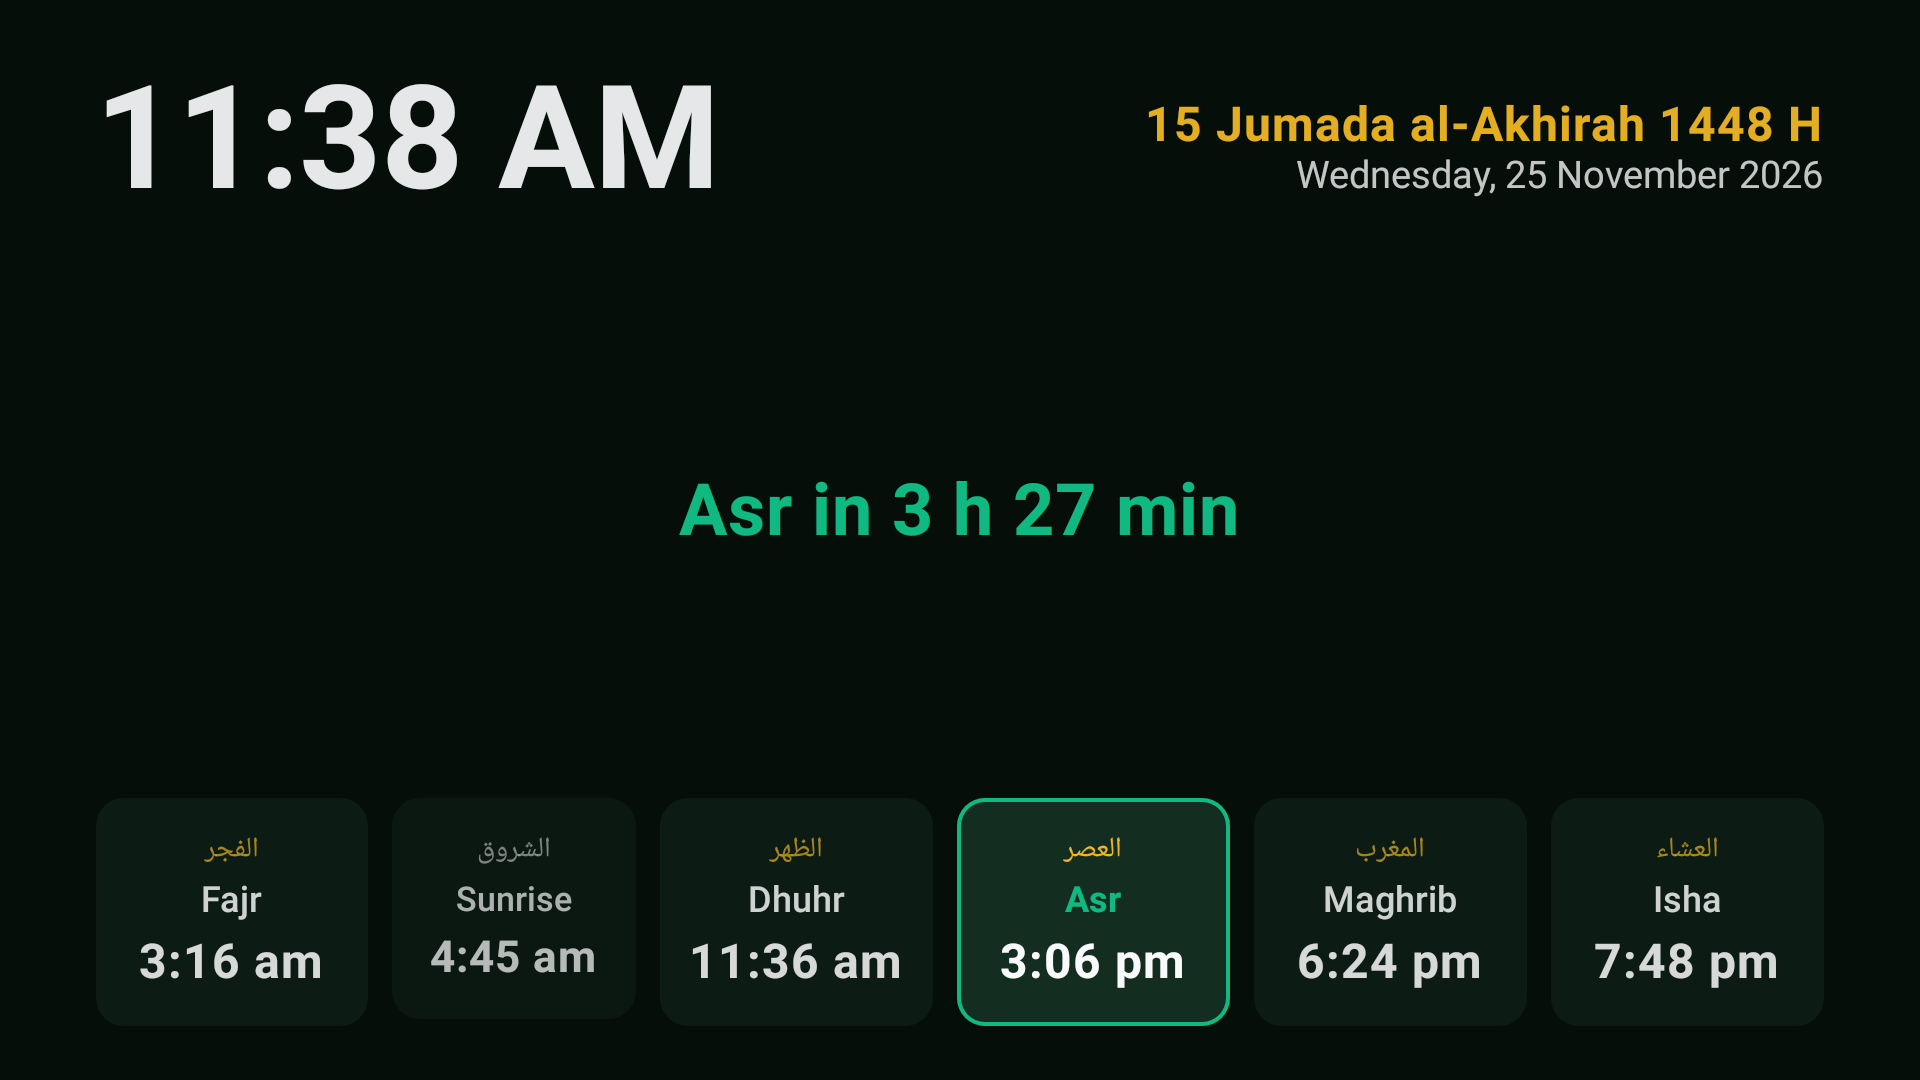
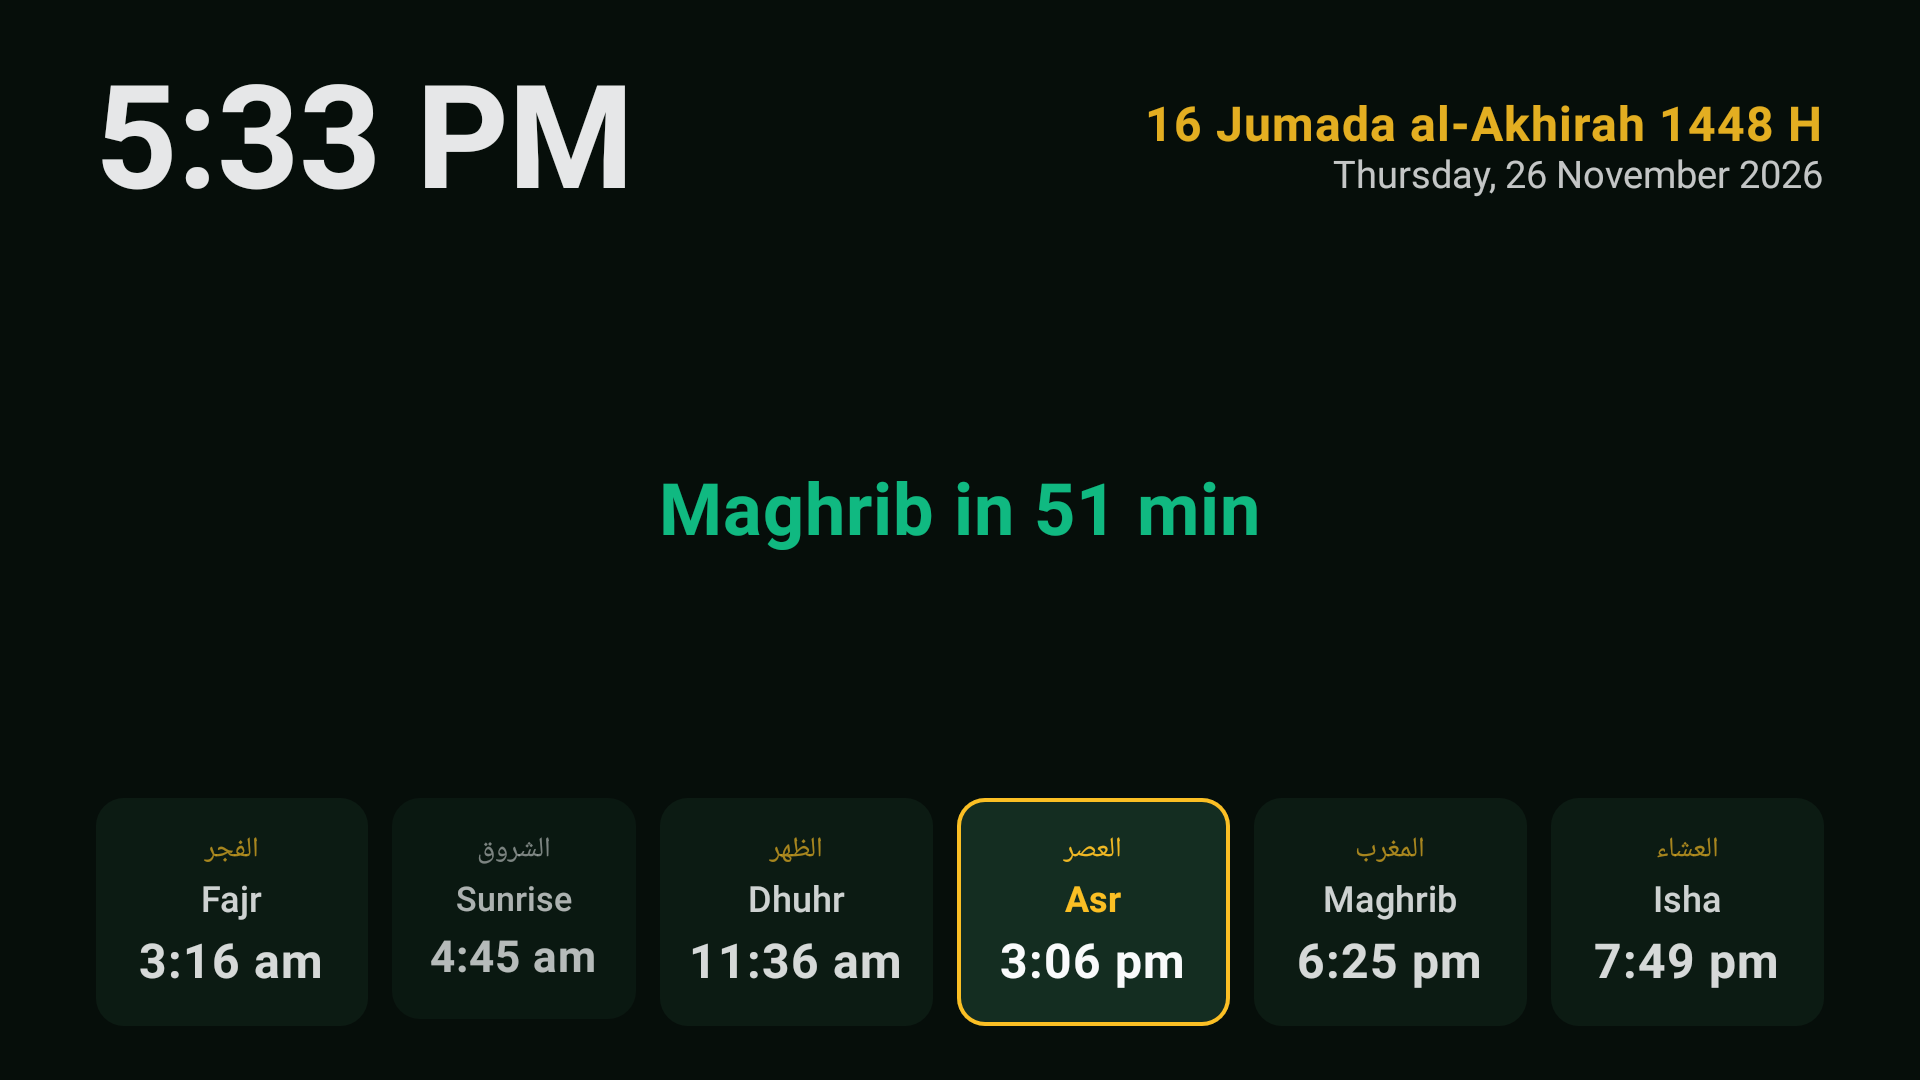
fix: address Review 10 (R10-1 Android 16 kiosk back, R10-3 engine activePrayer, R10-4/R10-5)

diff --git a/app-salatschedule/src/main/java/com/salatschedule/tv/screensaver/ScreensaverContent.kt b/app-salatschedule/src/main/java/com/salatschedule/tv/screensaver/ScreensaverContent.kt
@@ -82,7 +82,6 @@ private sealed interface ScreensaverSlideState {
         val hijriDate: String,
         val prayers: List<PrayerTimeItem>,
         val sunriseText: String,
-        val sunriseTime: java.time.LocalTime?,
         val activePrayer: PrayerTimeItem?,
         val nextPrayer: PrayerTimeItem?,
         val minutesUntilNext: Long,
@@ -147,19 +146,19 @@ fun ScreensaverHost(
     LaunchedEffect(loadedSettings, quranRefs) {
         val settings = loadedSettings ?: return@LaunchedEffect
         var cachedDate: LocalDate? = null
-        var cachedPrayerDay: PrayerTimesDay? = null
+        var cachedKey: DailyPrayerCacheKey? = null
         var cachedCalendarRows: List<ClassifiedIslamicEvent> = emptyList()
         var slideIdx = 0
 
         suspend fun ensureDailyData(nowZoned: ZonedDateTime): Pair<PrayerTimesDay, List<ClassifiedIslamicEvent>> {
             val today = nowZoned.toLocalDate()
-            if (cachedDate != today || cachedPrayerDay == null) {
-                val (day, calRows) = withContext(Dispatchers.IO) {
+            if (cachedDate != today || cachedKey == null) {
+                val (key, calRows) = withContext(Dispatchers.IO) {
                     val hijriMonths = runCatching {
                         LocaleHelper.wrap(context, settings.appLanguage)
                             .resources.getStringArray(R.array.hijri_months).toList()
                     }.getOrDefault(emptyList())
-                    val key = DailyPrayerCacheKey(
+                    val dailyKey = DailyPrayerCacheKey(
                         date = today,
                         config = settings.prayerConfig(),
                         hijriOffsetDays = settings.hijriOffsetDays,
@@ -167,19 +166,21 @@ fun ScreensaverHost(
                         iqamahOffsets = emptyMap(),
                         hijriMonthNames = hijriMonths
                     )
-                    val computedDay = prayerDayCache.getOrCompute(key, nowZoned)
                     val rows = IslamicCalendarSlideRows.compute(
                         today = today,
                         enabledIds = settings.enabledIslamicEventIds,
                         adjustmentDays = settings.hijriOffsetDays
                     )
-                    computedDay to rows
+                    dailyKey to rows
                 }
                 cachedDate = today
-                cachedPrayerDay = day
+                cachedKey = key
                 cachedCalendarRows = calRows
             }
-            return cachedPrayerDay!! to cachedCalendarRows
+            val computedDay = withContext(Dispatchers.IO) {
+                prayerDayCache.getOrCompute(cachedKey!!, nowZoned)
+            }
+            return computedDay to cachedCalendarRows
         }
 
         while (isActive) {
@@ -202,8 +203,8 @@ fun ScreensaverHost(
                 ScreensaverSlideKind.SCHEDULE -> {
                     val nowTime = nowZoned.toLocalTime()
                     val prayers = ScreensaverRotationEngine.normalizeHomePrayers(prayerDay)
-                    val nextPrayer = prayers.firstOrNull { it.time?.isAfter(nowTime) == true } ?: prayers.firstOrNull()
-                    val activePrayer = resolveActivePrayer(prayers, prayerDay.sunrise, nowTime)
+                    val nextPrayer = prayerDay.nextPrayer ?: prayers.firstOrNull()
+                    val activePrayer = prayerDay.activePrayer
                     val minsUntil = nextPrayer?.let {
                         ScreensaverRotationEngine.minutesUntilNextPrayer(nowTime, it)
                     } ?: 0L
@@ -213,7 +214,6 @@ fun ScreensaverHost(
                         hijriDate = prayerDay.hijriDate,
                         prayers = prayers,
                         sunriseText = prayerDay.formattedSunrise(settings.is24HourFormat),
-                        sunriseTime = prayerDay.sunrise,
                         activePrayer = activePrayer,
                         nextPrayer = nextPrayer,
                         minutesUntilNext = minsUntil,
@@ -270,16 +270,22 @@ fun ScreensaverHost(
                 elapsedMs += step
                 if (overflowSkipCounter != startSkip) break
                 if (currentKind == ScreensaverSlideKind.SCHEDULE && activeKinds.size == 1) {
-                    val refreshedNow = ZonedDateTime.now(zone).toLocalTime()
+                    val refreshedZoned = ZonedDateTime.now(zone)
+                    val refreshedNow = refreshedZoned.toLocalTime()
                     val cur = activeSlide as? ScreensaverSlideState.Schedule
                     val formatted = ScreensaverRotationEngine.formatClockMinutes(refreshedNow, settings.is24HourFormat)
                     if (cur != null && cur.clockText != formatted) {
-                        val nextP = cur.prayers.firstOrNull { it.time?.isAfter(refreshedNow) == true } ?: cur.prayers.firstOrNull()
-                        val activeP = resolveActivePrayer(cur.prayers, cur.sunriseTime, refreshedNow)
+                        val (refreshedDay, _) = ensureDailyData(refreshedZoned)
+                        val refreshedPrayers = ScreensaverRotationEngine.normalizeHomePrayers(refreshedDay)
+                        val nextP = refreshedDay.nextPrayer ?: refreshedPrayers.firstOrNull()
                         val mins = nextP?.let { ScreensaverRotationEngine.minutesUntilNextPrayer(refreshedNow, it) } ?: 0L
                         activeSlide = cur.copy(
                             clockText = formatted,
-                            activePrayer = activeP,
+                            gregorianDate = refreshedDay.gregorianDate,
+                            hijriDate = refreshedDay.hijriDate,
+                            prayers = refreshedPrayers,
+                            sunriseText = refreshedDay.formattedSunrise(settings.is24HourFormat),
+                            activePrayer = refreshedDay.activePrayer,
                             nextPrayer = nextP,
                             minutesUntilNext = mins
                         )
@@ -331,22 +337,6 @@ fun ScreensaverHost(
             }
         }
     }
-}
-
-private fun resolveActivePrayer(
-    prayers: List<PrayerTimeItem>,
-    sunrise: java.time.LocalTime?,
-    nowTime: java.time.LocalTime
-): PrayerTimeItem? {
-    val fajr = prayers.firstOrNull { it.prayer == Prayer.SUBUH }
-    val dhuhr = prayers.firstOrNull { it.prayer == Prayer.ZUHUR }
-    if (sunrise != null && dhuhr?.time != null && !nowTime.isBefore(sunrise) && nowTime.isBefore(dhuhr.time)) {
-        return null
-    }
-    if (fajr?.time != null && nowTime.isBefore(fajr.time)) {
-        return prayers.firstOrNull { it.prayer == Prayer.ISYA }
-    }
-    return prayers.lastOrNull { it.time != null && !nowTime.isBefore(it.time) }
 }
 
 @Composable

diff --git a/app-salatsign/src/main/java/com/salatsign/tv/MainActivity.kt b/app-salatsign/src/main/java/com/salatsign/tv/MainActivity.kt
@@ -145,7 +145,8 @@ class MainActivity : ComponentActivity() {
                     onRequestOpenSettings = { requestOpenSettings() },
                     onOpenSettingsDirect = { isSettingsOpen.value = true },
                     onCloseSettings = { isSettingsOpen.value = false },
-                    onClosePinDialog = { isPinDialogOpen.value = false }
+                    onClosePinDialog = { isPinDialogOpen.value = false },
+                    onTriggerExitHint = { exitHintTrigger.longValue = System.currentTimeMillis() }
                 )
             }
         }
@@ -253,7 +254,8 @@ private fun SalatSignMainContent(
     onRequestOpenSettings: () -> Unit,
     onOpenSettingsDirect: () -> Unit,
     onCloseSettings: () -> Unit,
-    onClosePinDialog: () -> Unit
+    onClosePinDialog: () -> Unit,
+    onTriggerExitHint: () -> Unit = {}
 ) {
     val settings by settingsViewModel.settings.collectAsState()
     val isSettingsLoaded by settingsViewModel.isSettingsLoaded.collectAsState()
@@ -282,8 +284,10 @@ private fun SalatSignMainContent(
         }
     }
 
-    if (isSettingsOpen) {
-        BackHandler { onCloseSettings() }
+    when {
+        isSettingsOpen -> BackHandler { onCloseSettings() }
+        isPinDialogOpen -> BackHandler { onClosePinDialog() }
+        settings.isSetupCompleted -> BackHandler { onTriggerExitHint() }
     }
 
     when {

diff --git a/core-tv-ui/src/main/java/com/salatsign/tv/ui/theme/Color.kt b/core-tv-ui/src/main/java/com/salatsign/tv/ui/theme/Color.kt
@@ -26,7 +26,7 @@ val AccentEmerald = Color(0xFF10B981)
 val AccentEmeraldDark = Color(0xFF046347)
 val EmeraldLight = Color(0xFF34D399)
 val AccentGold = Color(0xFFFBBF24)
-val AccentGoldDark = Color(0xFF734000) // Deep antique bronze (>=4.75:1 contrast on LightSurface & 18% chip tint)
+val AccentGoldDark = Color(0xFF734000) // Deep antique bronze (>=4.7:1 contrast on LightSurface & 18% chip tint)
 val ActivePrayerPulse = Color(0xFF059669)
 val PulseRed = Color(0xFFEF4444)
 

diff --git a/docs/SCREENSAVER.md b/docs/SCREENSAVER.md
@@ -2,7 +2,7 @@
 
 SalatSchedule registers a strictly silent, dark-mode Android TV screensaver (`com.salatschedule.tv.screensaver.SalatScreensaverService`) that rotates up to three slides while your TV is idle:
 
-1. **Prayer Schedule** — large clock (no seconds, 12h/24h per your app setting), Gregorian and Hijri date, 5 daily prayers + Sunrise (Friday Dhuhr stays labeled Dhuhr), with the next prayer highlighted and countdown.
+1. **Prayer Schedule** — large clock (no seconds, 12h/24h per your app setting), Gregorian and Hijri date, 5 daily prayers + Sunrise (Friday Dhuhr stays labeled Dhuhr), with the current active prayer highlighted and countdown to the next prayer.
 2. **Islamic Calendar** — recent past (within 14 days), TODAY, and upcoming Islamic dates (skipped if no events are enabled).
 3. **Quran Verse** — one offline verse per rotation from 63 curated verses (Arabic + translation in your app language, Auto duration, never truncated).
 
